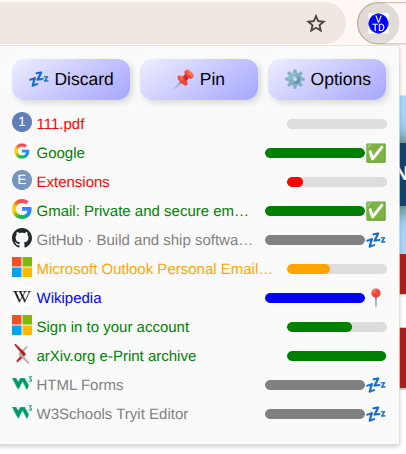
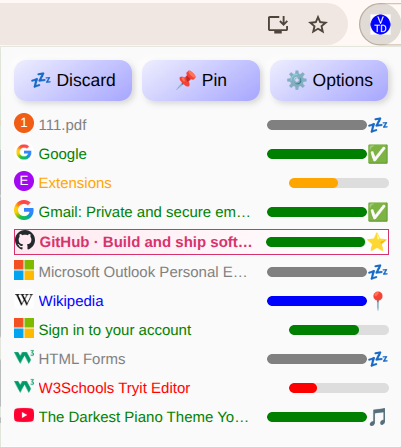
new screenshot

diff --git a/README.md b/README.md
@@ -4,7 +4,6 @@
 [![Release](https://img.shields.io/github/v/release/dolgov/VibedTabDiscarder?label=release)](https://github.com/dolgov/VibedTabDiscarder/releases)
 [![License: MIT](https://img.shields.io/badge/License-MIT-blue.svg)](LICENSE)
 [![Chrome Manifest V3](https://img.shields.io/badge/Manifest-V3-green.svg)](https://developer.chrome.com/docs/extensions/mv3/intro/)
-[![Code Style: Prettier](https://img.shields.io/badge/code%20style-prettier-ff69b4.svg)](https://prettier.io/)
 
 > 🧠 A privacy-respecting Chrome extension that automatically discards inactive tabs using Chrome’s **native discard mechanism** — keeping your browser fast and light without breaking websites. Essentially, a user-friendly Chrome's Memory Saver with controllable timeout and whitelist.
 
@@ -58,7 +57,7 @@ This extension **does not animate** favicons because:
 - Animation can increase CPU usage and distract users.
 - Instead, Vibed Tab Discarder provides a **popup list** showing all open tabs with live progress bars and indicators.
 
-> The popup UI displays each tab’s title, favicon, time until discard, and indicators like 📍 (pinned), ✅ (whitelisted), 🎵 (audible), 💤 (discarded).
+> The popup UI displays each tab’s title, favicon, time until discard, and indicators like 📍 (pinned), ✅ (whitelisted), 🎵 (audible), 💤 (discarded) and ⭐ (active).
 
 ![Popup window](Screenshot.png)
 
